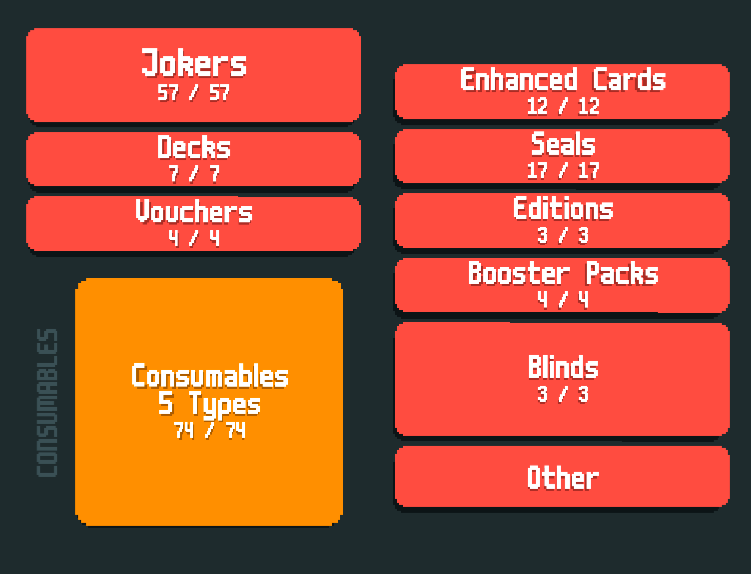
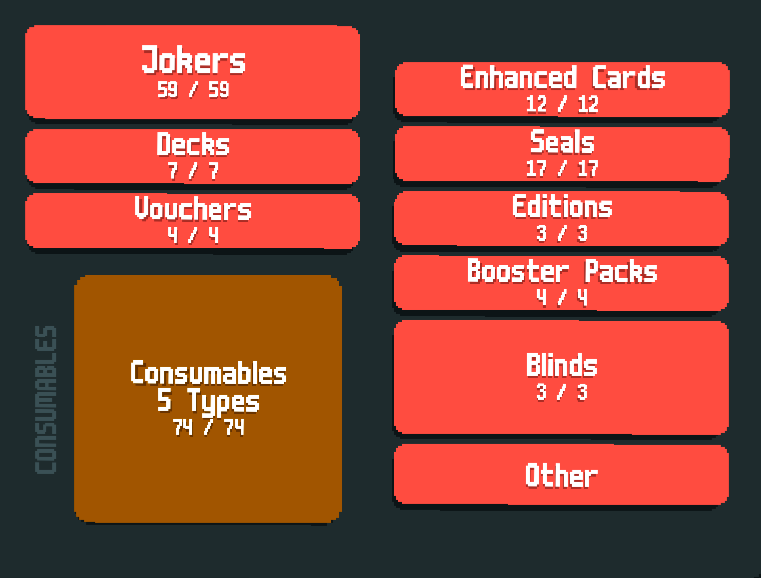
Update readme

Changed region(s): [[0.0306, 0.0296, 0.98, 0.8885], [0.0306, 0.4739, 0.4594, 0.9181], [0.6738, 0.5923, 0.7963, 0.7108]]

diff --git a/README.md b/README.md
@@ -46,7 +46,7 @@
     <tbody>
         <tr>
             <td>Jokers</td>
-            <td>58+ (+11 Cross-Mod)</td>
+            <td>59+ (+11 Cross-Mod)</td>
             <td>Planets</td>
             <td>16</td>
         </tr>
@@ -54,7 +54,7 @@
             <td>Food cards</td>
             <td>35 (+6 Cross-Mod)</td>
             <td>Enhancements</td>
-            <td>11+</td>
+            <td>12+</td>
         </tr>
         <tr>
             <td>Seals</td>
